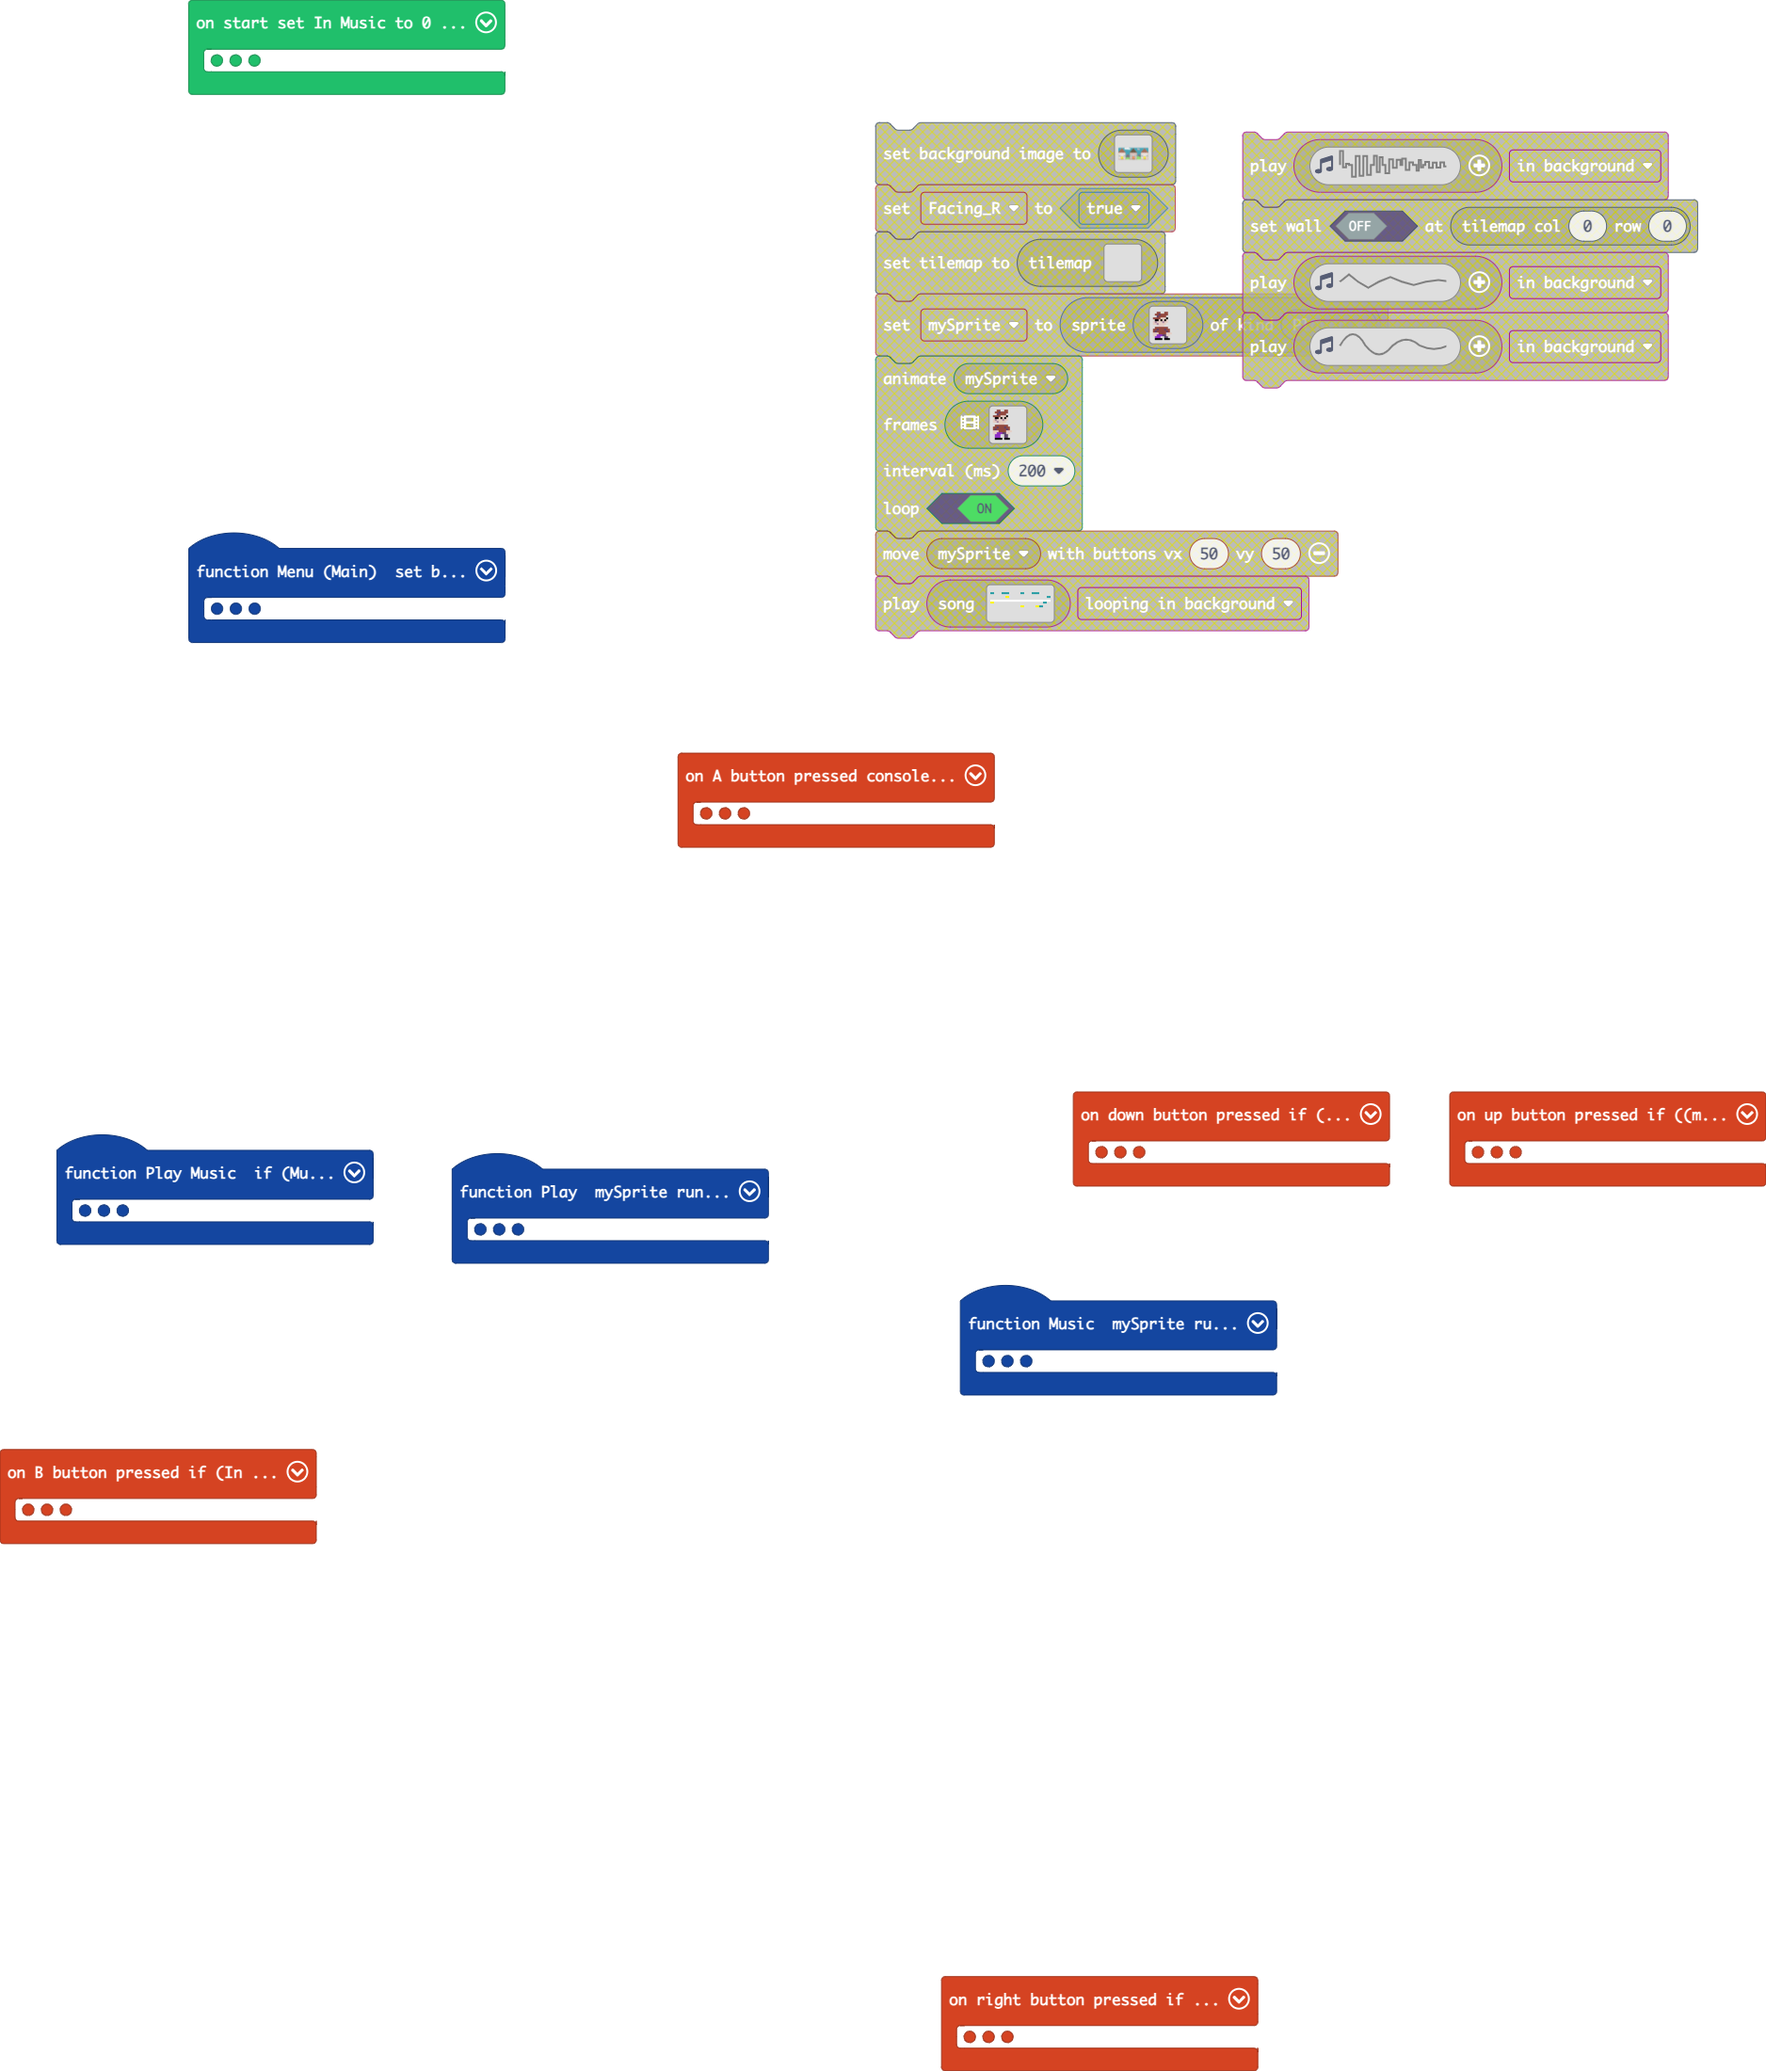
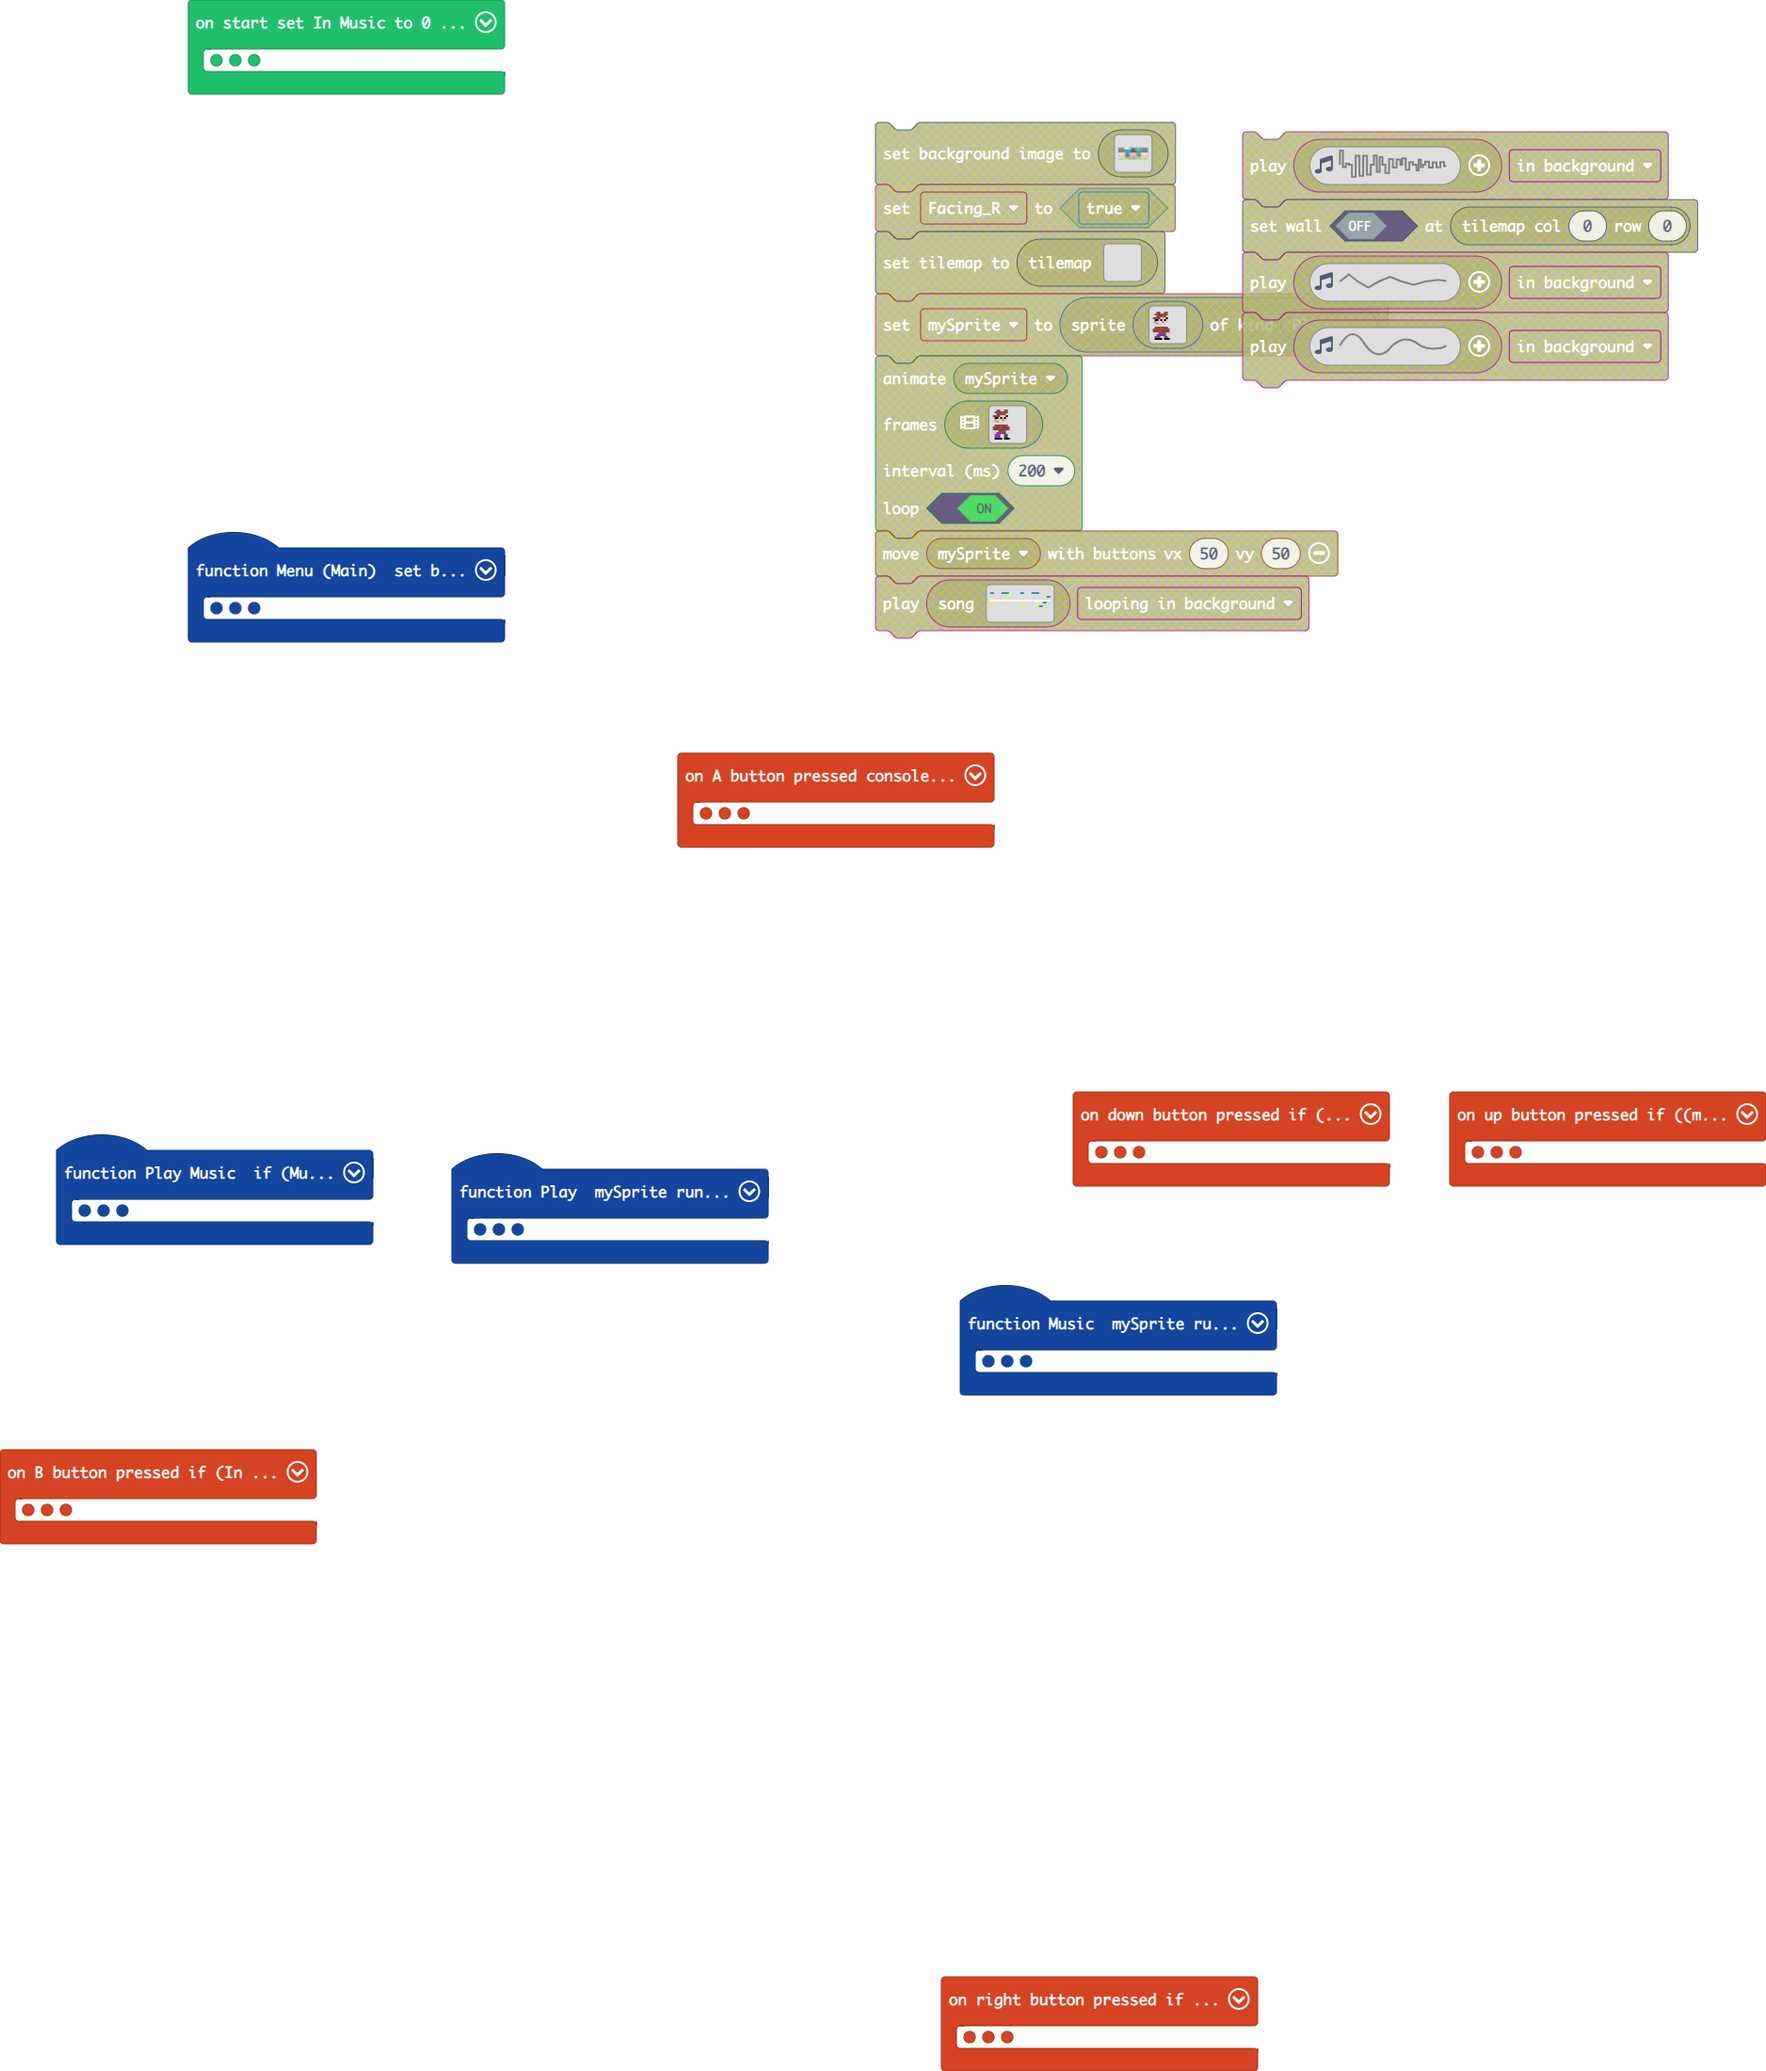
Update main.blocks, main.ts

Changed region(s): [[0.4947, 0.0618, 0.6493, 0.3091], [0.7111, 0.0618, 0.7729, 0.1236]]

diff --git a/main.ts b/main.ts
@@ -81,28 +81,28 @@ controller.down.onEvent(ControllerButtonEvent.Pressed, function () {
 function Play_Music () {
     if (Music_Counter == 1) {
         music.stopAllSounds()
-        music.play(music.createSong(assets.song`Song`), music.PlaybackMode.InBackground)
+        music.play(music.createSong(assets.song`Song`), music.PlaybackMode.LoopingInBackground)
     } else if (Music_Counter == 2) {
         music.stopAllSounds()
-        music.play(music.createSong(assets.song`Theme`), music.PlaybackMode.InBackground)
+        music.play(music.createSong(assets.song`Theme`), music.PlaybackMode.LoopingInBackground)
     } else if (Music_Counter == 3) {
         music.stopAllSounds()
-        music.play(music.createSong(assets.song`Title Intro`), music.PlaybackMode.InBackground)
+        music.play(music.createSong(assets.song`Title Intro`), music.PlaybackMode.LoopingInBackground)
     } else if (Music_Counter == 4) {
         music.stopAllSounds()
-        music.play(music.createSong(assets.song`Title`), music.PlaybackMode.InBackground)
+        music.play(music.createSong(assets.song`Title`), music.PlaybackMode.LoopingInBackground)
     } else if (Music_Counter == 5) {
         music.stopAllSounds()
-        music.play(music.createSong(assets.song`mySong`), music.PlaybackMode.InBackground)
+        music.play(music.createSong(assets.song`mySong`), music.PlaybackMode.LoopingInBackground)
     } else if (Music_Counter == 6) {
         music.stopAllSounds()
-        music.play(music.createSong(assets.song`mySong1`), music.PlaybackMode.InBackground)
+        music.play(music.createSong(assets.song`mySong1`), music.PlaybackMode.LoopingInBackground)
     } else if (Music_Counter == 7) {
         music.stopAllSounds()
-        music.play(music.createSong(assets.song`mySong0`), music.PlaybackMode.InBackground)
+        music.play(music.createSong(assets.song`mySong0`), music.PlaybackMode.LoopingInBackground)
     } else if (Music_Counter == 8) {
         music.stopAllSounds()
-        music.play(music.createSong(assets.song`mySong3`), music.PlaybackMode.InBackground)
+        music.play(music.createSong(assets.song`mySong3`), music.PlaybackMode.LoopingInBackground)
     }
 }
 let Music_Counter_Max = 0
